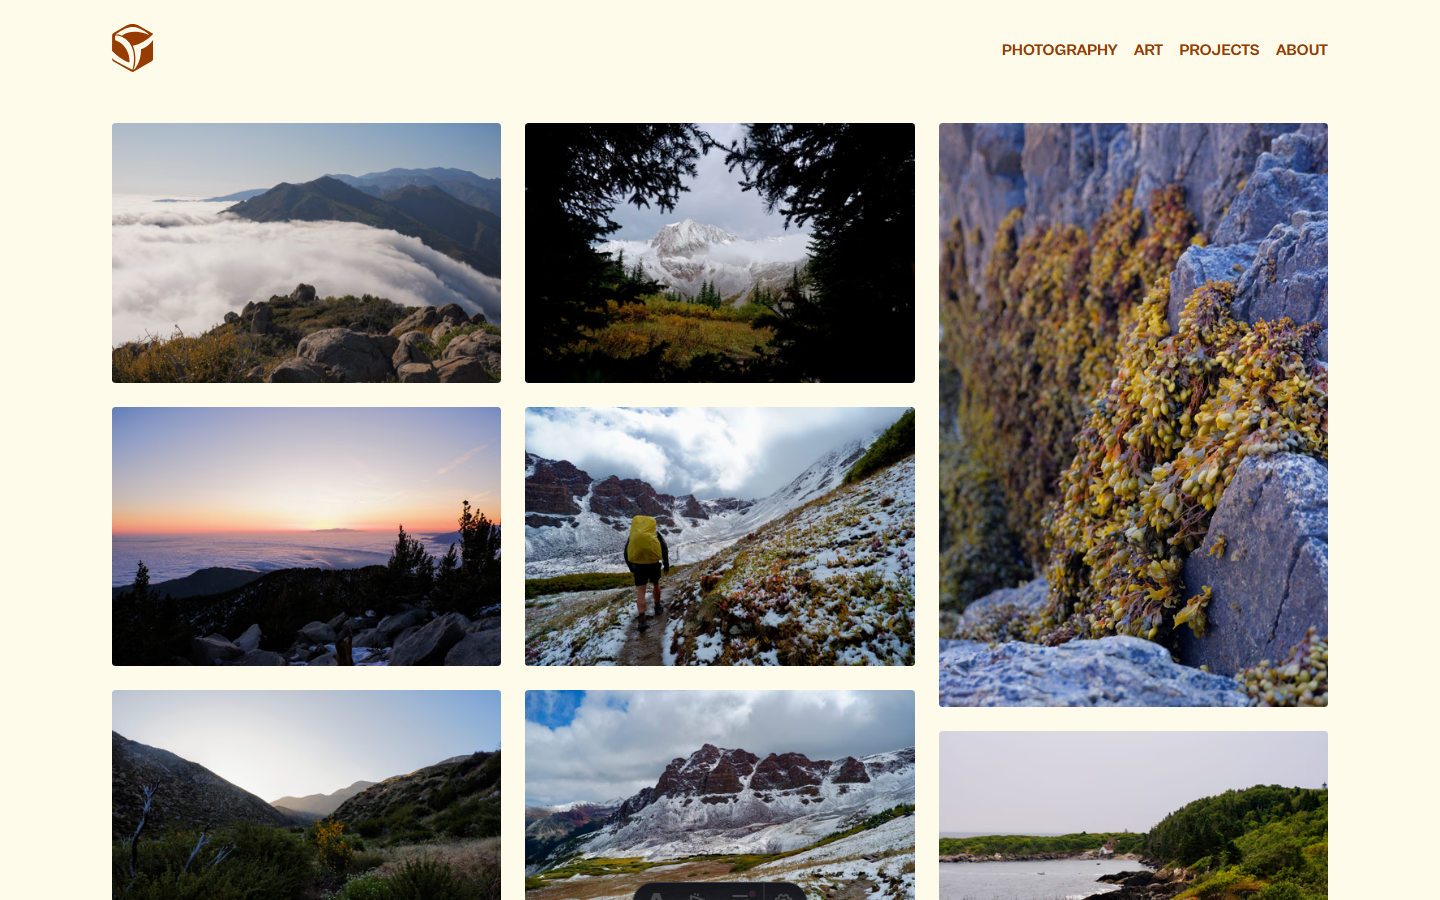
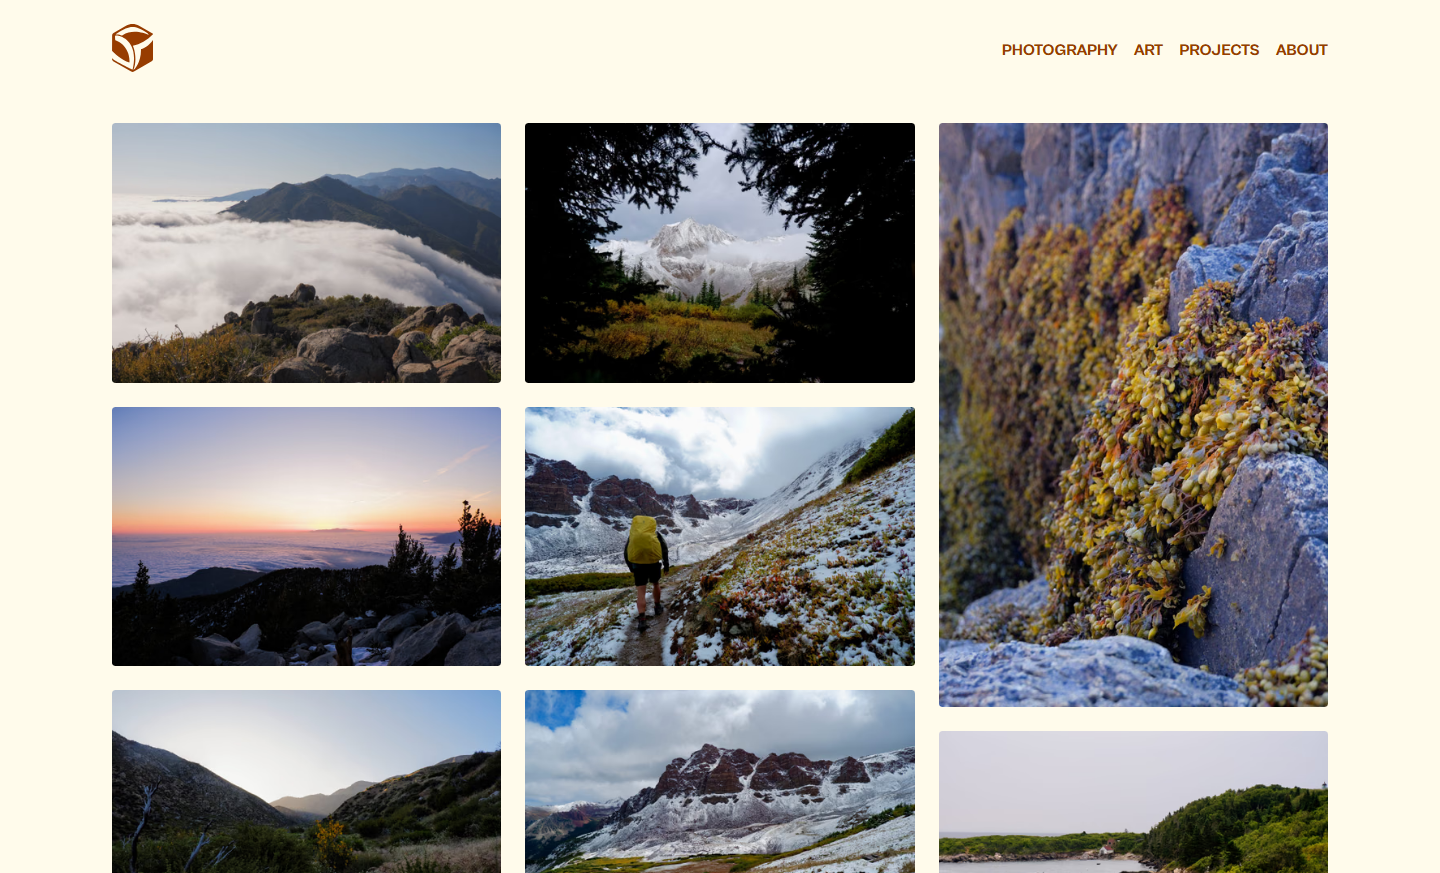
porject detail layout updates

diff --git a/src/data/projects.ts b/src/data/projects.ts
@@ -16,6 +16,10 @@ export interface ProjectImage {
   caption?: string;
 }
 
+export type ProjectContentBlock =
+  | { type: "text"; html: string }
+  | { type: "image"; image: ProjectImage };
+
 export interface Project {
   slug: string;
   title: string;
@@ -26,9 +30,8 @@ export interface Project {
     live?: string;
     repo?: string;
   };
-  description: string[];
+  content: ProjectContentBlock[];
   cover: ProjectImage;
-  gallery: ProjectImage[];
 }
 
 export const projects: Project[] = [
@@ -43,46 +46,81 @@ export const projects: Project[] = [
       live: "https://hyperlite.netlify.app/",
       repo: "https://github.com/sam-young-dev/hyperlite-ecommerce",
     },
-    description: [
-      "Hyperlite is a storefront modeled closely on Hyperlite Mountain Gear, an ultralight backpacking brand. The content and products are a deliberate clone rather than an original brand. The goal wasn't to design a store from scratch, it was to learn how the pieces of a headless ecommerce stack fit together without also having to invent a catalog.",
-      "Astro renders the storefront as fast, mostly-static HTML. Product, category, and page content live in Sanity.io as structured content, so the catalog can change without touching code. Snipcart is layered on top for cart state and checkout, which meant working within a client-side commerce widget instead of writing custom cart logic. The site is built and hosted on Netlify.",
-      'The build covers a product catalog split across categories (backpacks, tents, sleep, and accessories), individual product pages with pricing and details pulled from Sanity, and a working cart and checkout flow through Snipcart (Snipcart kept in test mode, but payments will succeed with test card 4242424242424242. See <a href="https://docs.snipcart.com/v3/testing/payments" target="_blank" rel="noopener noreferrer">docs</a> for more).',
-      "Every Netlify deploy preview runs a Lighthouse report and gives a build preview to check before merging into main, which turned performance into something to verify on every change rather than an afterthought. Chasing good Lighthouse scores across a client-side cart widget and image-heavy product pages was one of the bigger lessons of the project.",
-      'Product photography was the biggest single drag on those scores, so I swapped Astro\'s built-in image handling for <a href="https://unpic.pics/img/astro/" target="_blank" rel="noopener noreferrer">@unpic/astro</a>. It detects the CDN an image is served from and generates the right responsive srcset, sizes, and layout for it automatically, so product images pulled from Sanity\'s image CDN get properly optimized variants without hand-rolling breakpoints for every image on the site.',
-      'I also used the project as a chance to try <a href="https://sugarcube.sh/" target="_blank" rel="noopener noreferrer">Sugarcube</a> for design tokens instead of hand-writing CSS variables. Colors, spacing, and type scale are defined once as tokens and Sugarcube generates the CSS variables and utility classes from them, so a change to a token (a brand color, a spacing step) propagates everywhere it\'s used instead of needing a find-and-replace across stylesheets. That matters more on a storefront than it sounds. Category pages, product pages, and cart UI all need to look like the same brand, and tokens keep them from drifting apart as the site grows.',
+    content: [
+      {
+        type: "text",
+        html: "Hyperlite is a storefront modeled closely on Hyperlite Mountain Gear, an ultralight backpacking brand. The content and products are a deliberate clone rather than an original brand. The goal wasn't to design a store from scratch, it was to learn how the pieces of a headless ecommerce stack fit together without also having to invent a catalog.",
+      },
+      {
+        type: "image",
+        image: {
+          src: hyperliteHome,
+          alt: "Hyperlite Mountain Gear homepage with a full-width photo collage hero and category navigation.",
+          caption: "Homepage hero and category navigation.",
+        },
+      },
+      {
+        type: "text",
+        html: "Astro renders the storefront as fast, mostly-static HTML. Product, category, and page content live in Sanity.io as structured content, so the catalog can change without touching code. Snipcart is layered on top for cart state and checkout, which meant working within a client-side commerce widget instead of writing custom cart logic. The site is built and hosted on Netlify.",
+      },
+      {
+        type: "image",
+        image: {
+          src: hyperliteCategory,
+          alt: "Backpacks category page listing three ultralight packs with pricing.",
+          caption: "Category listing page, pulled from Sanity.",
+        },
+      },
+      {
+        type: "text",
+        html: "The build covers a product catalog split across categories (backpacks, tents, sleep, and accessories) and individual product pages with pricing and details pulled from Sanity.",
+      },
+      {
+        type: "image",
+        image: {
+          src: hyperliteProduct,
+          alt: "Southwest backpack product page with price, specs, image gallery, and an add to cart button.",
+          caption: "Product detail page with Snipcart add-to-cart.",
+        },
+      },
+      {
+        type: "text",
+        html: 'On top of that sits a working cart and checkout flow through Snipcart (Snipcart kept in test mode, but payments will succeed with test card 4242424242424242. See <a href="https://docs.snipcart.com/v3/testing/payments" target="_blank" rel="noopener noreferrer">docs</a> for more).',
+      },
+      {
+        type: "image",
+        image: {
+          src: hyperliteCart,
+          alt: "Snipcart cart summary showing the Southwest backpack, quantity, and checkout total.",
+          caption: "Cart summary and checkout, handled entirely by Snipcart.",
+        },
+      },
+      {
+        type: "text",
+        html: "Every Netlify deploy preview runs a Lighthouse report and gives a build preview to check before merging into main, which turned performance into something to verify on every change rather than an afterthought. Chasing good Lighthouse scores across a client-side cart widget and image-heavy product pages was one of the bigger lessons of the project.",
+      },
+      {
+        type: "image",
+        image: {
+          src: hyperliteLighthouse,
+          alt: "Lighthouse report from a Netlify deploy preview showing performance, accessibility, best practices, and SEO scores.",
+          caption:
+            "Lighthouse report generated on a Netlify deploy preview, part of tuning the site for performance before merging to production.",
+        },
+      },
+      {
+        type: "text",
+        html: 'Product photography was the biggest single drag on those scores, so I swapped Astro\'s built-in image handling for <a href="https://unpic.pics/img/astro/" target="_blank" rel="noopener noreferrer">@unpic/astro</a>. It detects the CDN an image is served from and generates the right responsive srcset, sizes, and layout for it automatically, so product images pulled from Sanity\'s image CDN get properly optimized variants without hand-rolling breakpoints for every image on the site.',
+      },
+      {
+        type: "text",
+        html: 'I also used the project as a chance to try <a href="https://sugarcube.sh/" target="_blank" rel="noopener noreferrer">Sugarcube</a> for design tokens instead of hand-writing CSS variables. Colors, spacing, and type scale are defined once as tokens and Sugarcube generates the CSS variables and utility classes from them, so a change to a token (a brand color, a spacing step) propagates everywhere it\'s used instead of needing a find-and-replace across stylesheets. That matters more on a storefront than it sounds. Category pages, product pages, and cart UI all need to look like the same brand, and tokens keep them from drifting apart as the site grows.',
+      },
     ],
     cover: {
       src: hyperliteHome,
       alt: "Hyperlite Mountain Gear homepage with a full-width photo collage hero and category navigation.",
     },
-    gallery: [
-      {
-        src: hyperliteHome,
-        alt: "Hyperlite Mountain Gear homepage with a full-width photo collage hero and category navigation.",
-        caption: "Homepage hero and category navigation.",
-      },
-      {
-        src: hyperliteCategory,
-        alt: "Backpacks category page listing three ultralight packs with pricing.",
-        caption: "Category listing page, pulled from Sanity.",
-      },
-      {
-        src: hyperliteProduct,
-        alt: "Southwest backpack product page with price, specs, image gallery, and an add to cart button.",
-        caption: "Product detail page with Snipcart add-to-cart.",
-      },
-      {
-        src: hyperliteCart,
-        alt: "Snipcart cart summary showing the Southwest backpack, quantity, and checkout total.",
-        caption: "Cart summary and checkout, handled entirely by Snipcart.",
-      },
-      {
-        src: hyperliteLighthouse,
-        alt: "Lighthouse report from a Netlify deploy preview showing performance, accessibility, best practices, and SEO scores.",
-        caption:
-          "Lighthouse report generated on a Netlify deploy preview, part of tuning the site for performance before merging to production.",
-      },
-    ],
   },
   {
     slug: "portfolio-site",
@@ -95,33 +133,52 @@ export const projects: Project[] = [
       live: "https://samyoung.dev/",
       repo: "https://github.com/sam-young-dev/sam-site",
     },
-    description: [
-      "This is the site you're on. It's an Astro build for photography, a couple of art/side projects, and a resume. It's mostly static, so pages ship as fast HTML with only the interactive pieces (the puddle background, the photo lightbox) shipping their own JS.",
-      'The rippling dot grid on the homepage started from <a href="https://batmannair.com/puddle.js/" target="_blank" rel="noopener noreferrer">Puddle.js</a>, which renders each grid cell as its own DOM element. A typical viewport needs 1,000 to 4,500 or more cells, more elements and style recalculations than a browser can update at 60fps, so I rewrote it to render the whole grid to a single &lt;canvas&gt;, tracking force values in flat Float32Arrays and only redrawing cells whose neighbors changed on each tick. I leaned on <a href="https://emilkowal.ski/" target="_blank" rel="noopener noreferrer">Emil Kowalski</a>\'s writing on UI feel to tune it afterward: ripple strength that scales with screen size, snapping small forces to zero so ripples settle cleanly instead of trailing off forever, and respecting prefers-reduced-motion.',
-      "The photography section reads real EXIF data out of each JPEG at build time with exifr: camera, lens, focal length, aperture, shutter speed, ISO, and GPS coordinates. It formats that data for display next to the photo. The data comes straight from the file, so adding a new photo means dropping in a JPEG, not hand-typing camera settings.",
-      "The rest is the usual accumulation of small decisions: chasing down Lighthouse warnings across every page, re-encoding a folder of multi-megabyte camera JPEGs down to something that loads quickly without looking compressed, and a handful of passes on the header, footer, and layout to get the site feeling less like a template and more like a specific, considered place.",
+    content: [
+      {
+        type: "text",
+        html: "This is the site you're on. It's an Astro build for photography, a couple of art/side projects, and a resume. It's mostly static, so pages ship as fast HTML with only the interactive pieces (the puddle background, the photo lightbox) shipping their own JS.",
+      },
+      {
+        type: "image",
+        image: {
+          src: portfolioPuddle,
+          alt: "Homepage of the portfolio site showing a dot-grid canvas background rippling outward from mouse movement.",
+          caption: "The puddle background mid-ripple, rendered to a single canvas instead of thousands of DOM nodes.",
+        },
+      },
+      {
+        type: "text",
+        html: 'The rippling dot grid on the homepage started from <a href="https://batmannair.com/puddle.js/" target="_blank" rel="noopener noreferrer">Puddle.js</a>, which renders each grid cell as its own DOM element. A typical viewport needs 1,000 to 4,500 or more cells, more elements and style recalculations than a browser can update at 60fps, so I rewrote it to render the whole grid to a single &lt;canvas&gt;, tracking force values in flat Float32Arrays and only redrawing cells whose neighbors changed on each tick. I leaned on <a href="https://emilkowal.ski/" target="_blank" rel="noopener noreferrer">Emil Kowalski</a>\'s writing on UI feel to tune it afterward: ripple strength that scales with screen size, snapping small forces to zero so ripples settle cleanly instead of trailing off forever, and respecting prefers-reduced-motion.',
+      },
+      {
+        type: "text",
+        html: "The photography section reads real EXIF data out of each JPEG at build time with exifr: camera, lens, focal length, aperture, shutter speed, ISO, and GPS coordinates. It formats that data for display next to the photo. The data comes straight from the file, so adding a new photo means dropping in a JPEG, not hand-typing camera settings.",
+      },
+      {
+        type: "image",
+        image: {
+          src: portfolioPhotoExif,
+          alt: "Photo detail page showing a mountain landscape alongside EXIF metadata: date, camera, lens, focal length, aperture, shutter speed, and ISO.",
+          caption: "EXIF metadata read from the JPEG at build time and rendered next to each photo.",
+        },
+      },
+      {
+        type: "text",
+        html: "The rest is the usual accumulation of small decisions: chasing down Lighthouse warnings across every page, re-encoding a folder of multi-megabyte camera JPEGs down to something that loads quickly without looking compressed, and a handful of passes on the header, footer, and layout to get the site feeling less like a template and more like a specific, considered place.",
+      },
+      {
+        type: "image",
+        image: {
+          src: portfolioPhotographyIndex,
+          alt: "Photography index page showing a masonry grid of landscape and hiking photos.",
+          caption: "The photography index, a masonry grid over the same photo set.",
+        },
+      },
     ],
     cover: {
       src: portfolioPuddle,
       alt: "Homepage of the portfolio site showing a dot-grid canvas background rippling outward from mouse movement.",
     },
-    gallery: [
-      {
-        src: portfolioPuddle,
-        alt: "Homepage of the portfolio site showing a dot-grid canvas background rippling outward from mouse movement.",
-        caption: "The puddle background mid-ripple, rendered to a single canvas instead of thousands of DOM nodes.",
-      },
-      {
-        src: portfolioPhotoExif,
-        alt: "Photo detail page showing a mountain landscape alongside EXIF metadata: date, camera, lens, focal length, aperture, shutter speed, and ISO.",
-        caption: "EXIF metadata read from the JPEG at build time and rendered next to each photo.",
-      },
-      {
-        src: portfolioPhotographyIndex,
-        alt: "Photography index page showing a masonry grid of landscape and hiking photos.",
-        caption: "The photography index, a masonry grid over the same photo set.",
-      },
-    ],
   },
 ];
 

diff --git a/src/styles/blocks/project-detail.css b/src/styles/blocks/project-detail.css
@@ -70,14 +70,13 @@
   margin-top: var(--space-md-lg);
 }
 
-.project-detail__description {
+.project-detail__content {
+  --flow-space: var(--space-xl);
   max-width: 70ch;
-  margin-bottom: var(--space-2xl);
 }
 
-.project-detail__gallery {
-  display: grid;
-  gap: var(--space-lg);
+.project-detail__content .prose {
+  max-width: none;
 }
 
 .project-detail__gallery-item {
